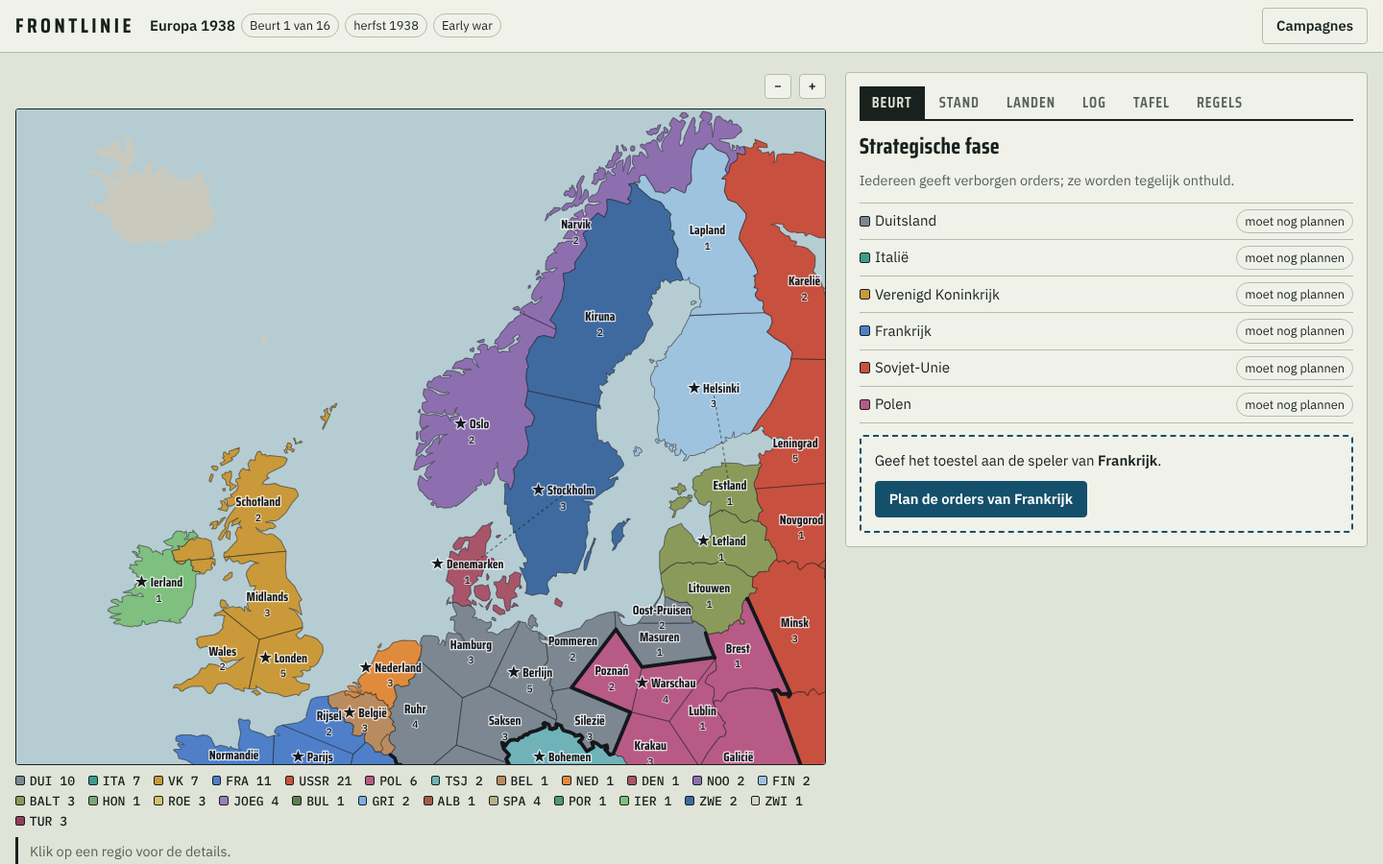
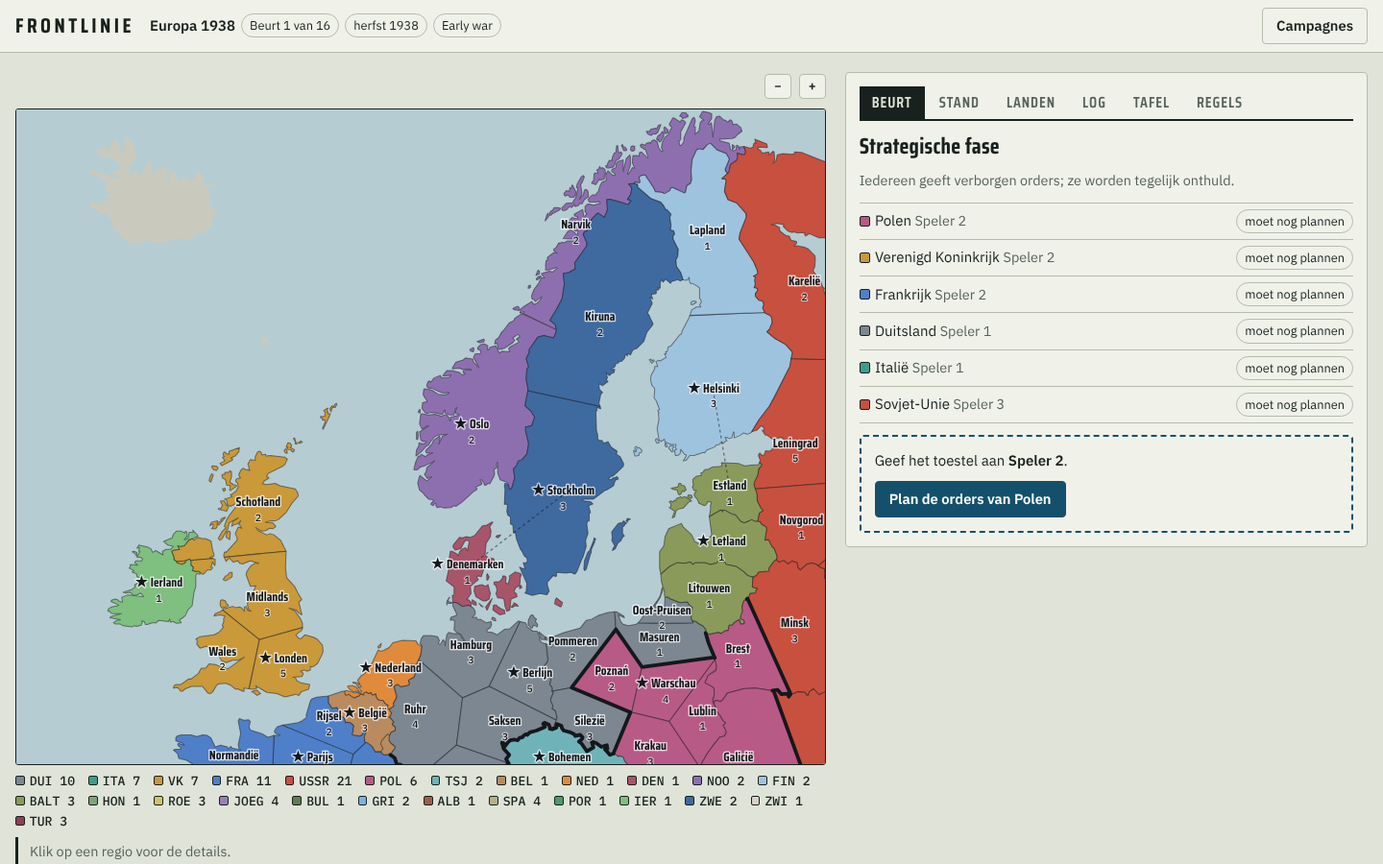
Frontlinie: spelers en landen kiezen bij de start
Bij het aanmaken van een campagne geef je de spelers een naam en kies je
per land wie het bestuurt; een speler mag meerdere landen besturen.
Het toestel gaat per speler rond in plaats van per land. Landen zonder
speler geven geen orders.

Claude-Session: https://claude.ai/code/session_01J3mvPChuSxEm9Lg5ATPEJk

Changed region(s): [[0.625, 0.2489, 0.75, 0.4356], [0.7188, 0.5289, 0.8438, 0.5911], [0.625, 0.4667, 0.7188, 0.4978]]

diff --git a/frontlinie/frontlinie.html b/frontlinie/frontlinie.html
@@ -146,6 +146,8 @@ label.vink { flex-direction: row; align-items: center; gap: 7px; font-size: 0.9r
 fieldset { border: 1px solid var(--lijn); border-radius: 4px; display: flex; flex-wrap: wrap; gap: 6px 16px; padding: 8px 10px; margin: 0; }
 legend { font: 600 0.74rem var(--f-kop); text-transform: uppercase; letter-spacing: 0.08em; color: var(--stil); padding: 0 4px; }
 .voorraad { display: grid; grid-template-columns: repeat(auto-fill, minmax(130px, 1fr)); gap: 8px 10px; }
+.spelers { display: flex; flex-direction: column; gap: 8px; }
+.spelers li { display: grid; grid-template-columns: minmax(110px, 180px) minmax(0, 1fr); gap: 10px; align-items: center; }
 .facrijen { display: flex; flex-direction: column; gap: 10px; }
 .facrij { border-top: 2px solid var(--inkt); padding-top: 8px; display: flex; flex-direction: column; gap: 7px; }
 .fackop { display: flex; flex-wrap: wrap; justify-content: space-between; align-items: center; gap: 8px; }
@@ -2017,7 +2019,7 @@ function nieuweCampagne(cfg) {
     const basis = sc.facties.find((f) => f.id === fc.id) || {}, F = FACTIES[fc.id];
     const geldig = doctrinesVoor(fc.id, periode).map((d) => d.id);
     const doc = geldig.includes(fc.doctrine) ? fc.doctrine : (geldig.includes(basis.doctrine) ? basis.doctrine : geldig[0]);
-    return { id: fc.id, naam: F.naam, kort: F.kort, kleur: F.kleur, zijde: fc.zijde || basis.zijde || F.zijde, speler: fc.speler || basis.speler || 'mens', leger: F.leger || '',
+    return { id: fc.id, naam: F.naam, kort: F.kort, kleur: F.kleur, zijde: fc.zijde || basis.zijde || F.zijde, speler: fc.speler || basis.speler || 'mens', spelerNaam: fc.spelerNaam || '', leger: F.leger || '',
       doctrines: [doc], slots: 1, zeges: 0, hoofdstad: basis.hoofdstad || null, bronnen: basis.bronnen ? basis.bronnen.slice() : null,
       para: !!basis.para, gratisPara: basis.gratisPara || 0, landing: !!basis.landing || !!sc.sandbox, beurt1Aanvallen: basis.beurt1Aanvallen || 0, later: !!basis.later,
       extraOrders: 0, bonusVP: 0, tegenaanval: null, herkans: [], geenLanding: 0, voorbereid: {}, vielAan: 0, verloor: 0, verslagen: false, veteranen: [] };
@@ -2277,7 +2279,10 @@ function startOrderFase(state) {
 function planVolgorde(state) {
   const mensen = actieveFacties(state).filter((f) => f.speler === 'mens');
   const rang = (f) => (heeftDoc(f, 'vuurkracht') ? -100 : 0) + state.initiatief.indexOf(f.id);
-  return mensen.sort((a, b) => rang(a) - rang(b)).map((f) => f.id);
+  mensen.sort((a, b) => rang(a) - rang(b));
+  // landen van dezelfde speler na elkaar, zodat het toestel maar één keer per speler rondgaat
+  const spelers = [...new Set(mensen.map((f) => f.spelerNaam || f.id))];
+  return spelers.flatMap((sp) => mensen.filter((f) => (f.spelerNaam || f.id) === sp)).map((f) => f.id);
 }
 function volgendePlanner(state) { return planVolgorde(state).find((id) => !state.klaar[id]) || null; }
 // Aanvallen van de vijand die deze factie tijdens het plannen al kent.
@@ -2864,7 +2869,11 @@ function beginNieuw(id) {
   const sc = campagneVan(id), rs = 'fow';
   ui.nieuw = { scenarioId: id, naam: sc.naam, ruleset: rs, punten: RULESETS[rs].punten, modus: 'simultaan', mist: true, doorlopend: !!sc.europa, lengte: sc.lengte, maxBeurten: sc.maxBeurten, geenDoel: false,
     bezit: losBezitOp(sc), verf: sc.facties[0].id,
-    facties: sc.facties.map((b) => ({ id: b.id, zijde: b.zijde || FACTIES[b.id].zijde, speler: b.speler === 'passief' ? 'passief' : 'mens', doctrine: b.doctrine || FACTIES[b.id].doctrine || doctrinesVoor(b.id, sc.periode)[0].id })) };
+    facties: sc.facties.map((b) => ({ id: b.id, zijde: b.zijde || FACTIES[b.id].zijde, speler: b.speler === 'passief' ? 'passief' : 'mens', wie: -1, doctrine: b.doctrine || FACTIES[b.id].doctrine || doctrinesVoor(b.id, sc.periode)[0].id })) };
+  // standaard: één speler per zijde
+  const n = ui.nieuw, zijden = [...new Set(n.facties.filter((f) => f.speler === 'mens').map((f) => f.zijde))];
+  n.spelers = zijden.map((_, i) => 'Speler ' + (i + 1));
+  for (const f of n.facties) if (f.speler === 'mens') f.wie = zijden.indexOf(f.zijde);
   ui.scherm = 'nieuw';
 }
 function nieuwScherm() {
@@ -2876,7 +2885,7 @@ function nieuwScherm() {
     const telt = Object.values(n.bezit).filter((e) => e === f.id).length;
     return `<li class="facrij"><div class="fackop"><span>${stip(F.kleur)}<b>${esc(F.naam)}</b></span><span class="stil">${telt} regio's</span></div>
       <div class="facvelden">
-        <label>Wie speelt<select id="sp-${f.id}" data-c="nf" data-i="${i}" data-veld="speler"><option value="mens" ${f.speler === 'mens' ? 'selected' : ''}>Een speler</option><option value="passief" ${f.speler === 'passief' ? 'selected' : ''}>Niemand: verdedigt alleen</option></select></label>
+        <label>Bestuurd door<select id="sp-${f.id}" data-c="nf" data-i="${i}" data-veld="wie" data-num="1"><option value="-1" ${f.wie < 0 ? 'selected' : ''}>Niemand</option>${n.spelers.map((sp, k) => `<option value="${k}" ${f.wie === k ? 'selected' : ''}>${esc(sp)}</option>`).join('')}</select></label>
         ${sc.sandbox ? `<label>Zijde<select id="zij-${f.id}" data-c="nf" data-i="${i}" data-veld="zijde">${Object.entries(ZIJDEN).map(([z, zn]) => `<option value="${z}" ${f.zijde === z ? 'selected' : ''}>${zn}</option>`).join('')}</select></label>` : ''}
         <label>Doctrine<select id="doc-${f.id}" data-c="nf" data-i="${i}" data-veld="doctrine">${docs.map((x) => `<option value="${x.id}" ${x.id === d.id ? 'selected' : ''}>${esc(x.naam)}</option>`).join('')}</select></label></div>
       <p class="doctekst"><b>Kaart:</b> ${esc(d.strat)} <b>Gevecht:</b> ${esc(d.gevecht)} <b>Nadeel:</b> ${esc(d.nadeel)}</p>
@@ -2885,14 +2894,20 @@ function nieuwScherm() {
   const spelers = n.facties.map((f, i) => [f, i]).filter(([f]) => f.speler === 'mens'), passief = n.facties.map((f, i) => [f, i]).filter(([f]) => f.speler !== 'mens');
   const rsOpt = Object.entries(RULESETS).map(([id, r]) => `<option value="${id}" ${n.ruleset === id ? 'selected' : ''}>${r.naam}</option>`).join('');
   const zijden = new Set(spelers.map(([f]) => f.zijde).filter((z) => z !== 'neutraal'));
-  const fout = spelers.length < 2 ? 'Minstens twee landen hebben een speler nodig.' : zijden.size < 2 ? 'De spelers moeten over minstens twee zijden verdeeld zijn.' : '';
+  const fout = spelers.length < 2 ? 'Geef minstens twee landen een speler.' : zijden.size < 2 ? 'De landen met een speler moeten over minstens twee zijden verdeeld zijn.' : '';
+  const spelerVak = `<ul class="spelers">${n.spelers.map((sp, k) => { const l = n.facties.filter((f) => f.wie === k); return `<li><input type="text" id="spn-${k}" data-c="ns" data-i="${k}" value="${esc(sp)}" aria-label="Naam van speler ${k + 1}"><span class="stil">${l.length ? l.map((f) => stip(FACTIES[f.id].kleur) + esc(FACTIES[f.id].naam)).join(', ') : 'nog geen land'}</span></li>`; }).join('')}</ul>
+    <div class="knoppen">${n.spelers.length < 8 ? knop('spelerPlus', 'Speler erbij', '', 'mini') : ''}${n.spelers.length > 2 ? knop('spelerMin', 'Laatste speler weg', '', 'mini') : ''}</div>`;
   return `<main class="nieuw">
   <section class="kaartvak"><p class="oog">${esc(sc.ondertitel)}</p><h1>${esc(sc.naam)}</h1><p>${esc(sc.tekst)}</p>
     ${sc.doel && !n.geenDoel ? `<p class="doelregel"><b>Doel.</b> ${esc(sc.doel.tekst)} Lukt dat niet, dan wint de andere zijde.</p>` : `<p class="doelregel"><b>Doel.</b> De zijde met de meeste overwinningspunten na ${n.maxBeurten} beurten wint.</p>`}
     <div class="kaartrol past"><div>${kaartSvg(ps, {})}</div></div>
     ${sc.sandbox ? `<label class="inlijn">Klik op een regio om haar te geven aan <select id="n-verf" data-c="n" data-veld="verf">${n.facties.map((f) => `<option value="${f.id}" ${n.verf === f.id ? 'selected' : ''}>${esc(FACTIES[f.id].naam)}</option>`).join('')}</select></label>` : ''}
     ${legenda()}</section>
-  <section class="paneel"><h2>Instellingen</h2>
+  <section class="paneel"><h2>Wie speelt mee?</h2><p class="stil">Geef elke speler een naam en kies hieronder per land wie het bestuurt. Eén speler mag meerdere landen besturen. Landen zonder speler doen niets.</p>
+    ${spelerVak}
+    <h2>Landen met een speler</h2><ul class="facrijen">${spelers.map(([f, i]) => rij(f, i)).join('') || '<li class="stil">Nog geen land gekozen.</li>'}</ul>
+    ${passief.length ? `<details ${spelers.length < 2 ? 'open' : ''}><summary>Landen zonder speler (${passief.length})</summary><p class="stil">Ze geven geen orders en doen niets uit zichzelf. Val je er één aan, dan speelt een tegenstander zijn leger. Een neutraal land dat wordt aangevallen, kiest de andere kant.</p><ul class="facrijen">${passief.map(([f, i]) => rij(f, i)).join('')}</ul></details>` : ''}
+    <h2>Instellingen</h2>
     <div class="veldgrid">
       <label class="breed">Naam van de campagne<input type="text" id="n-naam" data-c="n" data-veld="naam" value="${esc(n.naam)}"></label>
       <label>Systeem<select id="n-rs" data-c="n" data-veld="ruleset">${rsOpt}</select></label>
@@ -2904,8 +2919,6 @@ function nieuwScherm() {
       <label class="vink breed"><input type="checkbox" id="n-door" data-c="n" data-veld="doorlopend" ${n.doorlopend ? 'checked' : ''}> De periode volgt de kalender: Mid war vanaf 1942, Late war vanaf 1944</label>
       ${sc.sandbox && sc.doel ? `<label class="vink breed"><input type="checkbox" id="n-doel" data-c="n" data-veld="geenDoel" ${n.geenDoel ? 'checked' : ''}> Zonder scenariodoel: speel op overwinningspunten</label>` : ''}
     </div>
-    <h2>Landen met een speler</h2><ul class="facrijen">${spelers.map(([f, i]) => rij(f, i)).join('')}</ul>
-    ${passief.length ? `<details><summary>Landen zonder speler (${passief.length})</summary><p class="stil">Ze geven geen orders. Word je aangevallen, dan speelt een tegenstander van de aanvaller hun leger. Een neutraal land dat wordt aangevallen, kiest de andere kant.</p><ul class="facrijen">${passief.map(([f, i]) => rij(f, i)).join('')}</ul></details>` : ''}
     ${fout ? `<p class="fout">${fout}</p>` : ''}
     <div class="knoppen">${knop('startCampagne', 'Start de campagne', fout ? 'disabled' : '', 'hoofd')}${knop('naarStart', 'Terug')}</div>
   </section></main>`;
@@ -2975,10 +2988,10 @@ function tabBeurt(s) {
   if (s.fase === 'orders') {
     if (ui.plannend) return orderBouwer(s, ui.plannend);
     const volg = planVolgorde(s), nu = volgendePlanner(s);
-    const rijen = actieveFacties(s).filter((f) => f.speler === 'mens').map((f) => `<li class="rij smal"><span>${facNaam(s, f.id)}</span>${s.klaar[f.id] ? chip('orders klaar', 'ok') : chip('moet nog plannen')}</li>`).join('');
+    const rijen = volg.map((id) => factie(s, id)).map((f) => `<li class="rij smal"><span>${facNaam(s, f.id)}${f.spelerNaam ? ` <span class="stil">${esc(f.spelerNaam)}</span>` : ''}</span>${s.klaar[f.id] ? chip('orders klaar', 'ok') : chip('moet nog plannen')}</li>`).join('');
     return `<h2>Strategische fase</h2><p class="stil">${s.modus === 'simultaan' ? 'Iedereen geeft verborgen orders; ze worden tegelijk onthuld.' : `Om de beurt, op initiatief: ${volg.map((id) => esc(factie(s, id).naam)).join(', ')}. Wie later plant, ziet de aanvallen van wie al klaar is.`}</p>
       <ul class="rijen">${rijen}</ul>
-      ${nu ? `<div class="doorgeef"><p>Geef het toestel aan de speler van <b>${esc(factie(s, nu).naam)}</b>.</p>${knop('plan', `Plan de orders van ${esc(factie(s, nu).naam)}`, `data-id="${nu}"`, 'hoofd')}</div>` : `<div class="doorgeef"><p>Alle orders liggen klaar.</p>${knop('onthul', 'Onthul de orders', '', 'hoofd')}</div>`}`;
+      ${nu ? `<div class="doorgeef"><p>Geef het toestel aan <b>${esc(factie(s, nu).spelerNaam || 'de speler van ' + factie(s, nu).naam)}</b>.</p>${knop('plan', `Plan de orders van ${esc(factie(s, nu).naam)}`, `data-id="${nu}"`, 'hoofd')}</div>` : `<div class="doorgeef"><p>Alle orders liggen klaar.</p>${knop('onthul', 'Onthul de orders', '', 'hoofd')}</div>`}`;
   }
   if (s.fase === 'onthuld') {
     if (ui.auftrag) return orderBouwer(s, ui.auftrag.fid);
@@ -3017,7 +3030,7 @@ function orderBouwer(s, fid) {
     const n = t === 'aanval' ? orderDoelen(s, fid, 'aanval').length : orderDoelen(s, fid, t).length;
     return `<button type="button" class="ordknop${ui.orderType === t ? ' aan' : ''}" data-a="orderType" data-id="${t}" ${n ? '' : 'disabled'} title="${esc(ORDERTYPES[t].tekst)}"><span class="code">${ORDERCODE[t]}</span>${ORDERTYPES[t].naam}</button>`;
   }).join('');
-  return `<div class="planner"><p class="oog">${ui.auftrag ? 'Auftragstaktik: vervang één order' : 'Geheim: alleen voor deze speler'}</p><h2>${facNaam(s, fid)}</h2>
+  return `<div class="planner"><p class="oog">${ui.auftrag ? 'Auftragstaktik: vervang één order' : `Geheim: alleen voor ${esc(f.spelerNaam || 'deze speler')}`}</p><h2>${facNaam(s, fid)}</h2>
     <p class="stil">${esc(docNamen(f))}</p>
     <p class="tellers">${chip(`Orders ${tel.orders} van ${lim.orders}`, tel.orders >= lim.orders ? 'let' : '')}${chip(`Aanvallen ${tel.aanvallen} van ${lim.aanvallen}`, tel.aanvallen >= lim.aanvallen ? 'let' : '')}</p>
     ${bekend.length ? `<p class="let-tekst"><b>Verkenning meldt:</b> ${bekend.map((a) => `${esc(factie(s, a.fid).naam)} valt ${esc(info.opId[a.naar].naam)} aan`).join('; ')}.</p>` : ''}
@@ -3025,7 +3038,7 @@ function orderBouwer(s, fid) {
     ${ui.orderType ? `<p class="uitleg">${esc(ORDERTYPES[ui.orderType].tekst)} ${esc(instructie(s))}</p>` : '<p class="uitleg">Kies een order, klik dan op de kaart.</p>'}
     ${ui.melding ? `<p class="fout">${esc(ui.melding)}</p>` : ''}
     <h3>Jouw orders</h3>${eigen.length ? `<ol class="orders">${lijst.map((o, i) => (ui.auftrag && ui.auftrag.index === i ? '' : `<li><span class="code">${ORDERCODE[o.type]}</span>${orderTekst(s, o)}${ui.auftrag ? '' : knop('wisOrder', 'wis', `data-i="${i}"`, 'mini')}</li>`)).join('')}</ol>` : '<p class="stil">Nog geen orders.</p>'}
-    <div class="knoppen">${ui.auftrag ? knop('auftragStop', 'Annuleer') : knop('planKlaar', 'Klaar, verberg mijn orders', '', 'hoofd')}</div></div>`;
+    <div class="knoppen">${ui.auftrag ? knop('auftragStop', 'Annuleer') : knop('planKlaar', 'Klaar met ' + esc(f.naam), '', 'hoofd')}</div></div>`;
 }
 
 function standTabel(s, st) {
@@ -3046,7 +3059,7 @@ function tabLanden(s) {
     const docs = f.doctrines.map((id, i) => { const d = doctrineVan(id); return `<div class="doc"><b>${esc(d.naam)}</b>${f.magWisselen && i === 0 && vrij.length ? ` <select id="wd-${f.id}" data-c="wisselDoc" data-id="${f.id}" aria-label="Andere doctrine"><option value="">andere kiezen…</option>${vrij.map((x) => `<option value="${x.id}">${esc(x.naam)}</option>`).join('')}</select>` : ''}<p><b>Kaart:</b> ${esc(d.strat)} <b>Gevecht:</b> ${esc(d.gevecht)} <b>Nadeel:</b> ${esc(d.nadeel)}</p></div>`; }).join('');
     const tweede = f.slots >= 2 && f.doctrines.length < 2 && vrij.length ? `<label class="tweede">Tweede doctrine vrijgespeeld<select id="td-${f.id}" data-c="tweedeDoc" data-id="${f.id}"><option value="">kies…</option>${vrij.map((x) => `<option value="${x.id}">${esc(x.naam)}</option>`).join('')}</select></label>` : '';
     const vets = f.veteranen.map((v, i) => `<li><span><b>${esc(v.naam)}</b> · ${v.gevechten} gevecht${v.gevechten === 1 ? '' : 'en'} · <span class="stil">${veteraanBonus(v)}</span></span><span class="knoppen">${knop('vetPlus', '+1 gevecht', `data-id="${f.id}" data-i="${i}"`, 'mini')}${knop('vetWeg', 'wis', `data-id="${f.id}" data-i="${i}"`, 'mini')}</span></li>`).join('');
-    return `<li class="blok${f.verslagen ? ' uit' : ''}"><div class="fackop"><h3>${facNaam(s, f.id)}</h3><span class="chips">${chip(ZIJDEN[f.zijde])}${f.verslagen ? chip('verslagen', 'let') : chip(`${lim.orders} orders, ${lim.aanvallen} aanvallen`)}</span></div>
+    return `<li class="blok${f.verslagen ? ' uit' : ''}"><div class="fackop"><h3>${facNaam(s, f.id)}${f.speler === 'mens' && f.spelerNaam ? ` <span class="stil">${esc(f.spelerNaam)}</span>` : ''}</h3><span class="chips">${chip(ZIJDEN[f.zijde])}${f.verslagen ? chip('verslagen', 'let') : chip(`${lim.orders} orders, ${lim.aanvallen} aanvallen`)}</span></div>
       <label class="inlijn">Wie speelt <select id="sp2-${f.id}" data-c="spelerWissel" data-id="${f.id}"><option value="mens" ${f.speler === 'mens' ? 'selected' : ''}>Een speler</option><option value="passief" ${f.speler !== 'mens' ? 'selected' : ''}>Niemand: verdedigt alleen</option></select></label>
       <p class="doctekst"><b>Leger op tafel:</b> ${esc(f.leger || FACTIES[f.id].leger)}</p>
       ${docs}${tweede}
@@ -3195,10 +3208,12 @@ const ACT = {
       opslag.campagnes[s.id] = s; bewaar(); ui.melding = '';
     } catch (e) { ui.melding = 'Dit is geen geldige Frontlinie-export. Plak de volledige tekst, van { tot en met }.'; }
   },
+  spelerPlus() { ui.nieuw.spelers.push('Speler ' + (ui.nieuw.spelers.length + 1)); },
+  spelerMin() { const k = ui.nieuw.spelers.length - 1; ui.nieuw.spelers.pop(); for (const f of ui.nieuw.facties) if (f.wie === k) { f.wie = -1; f.speler = 'passief'; } },
   startCampagne() {
     const n = ui.nieuw;
     const s = nieuweCampagne({ scenarioId: n.scenarioId, naam: n.naam.trim() || campagneVan(n.scenarioId).naam, ruleset: n.ruleset, punten: n.punten, modus: n.modus, mist: n.mist, doorlopend: n.doorlopend,
-      lengte: n.lengte, maxBeurten: n.maxBeurten, geenDoel: n.geenDoel, bezit: n.bezit, tafel: opslag.tafel, voorraad: opslag.voorraad, facties: n.facties.map((f) => ({ id: f.id, zijde: f.zijde, speler: f.speler, doctrine: f.doctrine })) });
+      lengte: n.lengte, maxBeurten: n.maxBeurten, geenDoel: n.geenDoel, bezit: n.bezit, tafel: opslag.tafel, voorraad: opslag.voorraad, facties: n.facties.map((f) => ({ id: f.id, zijde: f.zijde, speler: f.speler, spelerNaam: f.wie >= 0 ? (n.spelers[f.wie].trim() || 'Speler ' + (f.wie + 1)) : '', doctrine: f.doctrine })) });
     opslag.campagnes[s.id] = s; bewaar(); ACT.open({ id: s.id });
   },
   tab(d) { ui.tab = d.id; ui.melding = ''; },
@@ -3223,7 +3238,13 @@ const ACT = {
   plan(d) { ui.plannend = d.id; ui.tab = 'beurt'; ui.sel = null; ui.undo = null; resetPlan(); },
   orderType(d) { ui.orderType = ui.orderType === d.id ? null : d.id; ui.orderVan = null; ui.melding = ''; },
   wisOrder(d) { muteer((s) => verwijderOrder(s, ui.plannend, +d.i)); },
-  planKlaar() { muteer((s) => { s.klaar[ui.plannend] = true; }); ui.plannend = null; ui.sel = null; ui.undo = null; resetPlan(); naarBoven(); },
+  planKlaar() {
+    const s = C(), wie = factie(s, ui.plannend).spelerNaam;
+    muteer((st) => { st.klaar[ui.plannend] = true; });
+    const nu = volgendePlanner(s); // volgende land van dezelfde speler: meteen door, zonder het toestel door te geven
+    ui.plannend = nu && wie && factie(s, nu).spelerNaam === wie ? nu : null;
+    ui.sel = null; ui.undo = null; resetPlan(); naarBoven();
+  },
   onthul() { muteer((s) => onthul(s)); ui.undo = null; },
   auftrag(d) { ui.auftrag = { fid: d.id, index: +d.i }; resetPlan(); },
   auftragStop() { ui.auftrag = null; resetPlan(); },
@@ -3253,7 +3274,8 @@ const ACT = {
 // formuliervelden: data-c = doel, data-veld = sleutel
 const VELD = {
   n(el, w) { const n = ui.nieuw; n[el.dataset.veld] = w; if (el.dataset.veld === 'ruleset') n.punten = RULESETS[w].punten; },
-  nf(el, w) { ui.nieuw.facties[+el.dataset.i][el.dataset.veld] = w; },
+  nf(el, w) { const f = ui.nieuw.facties[+el.dataset.i]; f[el.dataset.veld] = w; if (el.dataset.veld === 'wie') f.speler = w >= 0 ? 'mens' : 'passief'; },
+  ns(el, w) { ui.nieuw.spelers[+el.dataset.i] = String(w).slice(0, 30); },
   l(el, w) { const l = ui.los; l[el.dataset.veld] = w; if (el.dataset.veld === 'ruleset') l.punten = RULESETS[w].punten; if (['facA', 'periode'].includes(el.dataset.veld) && !doctrinesVoor(l.facA, l.periode).some((x) => x.id === l.docA)) l.docA = ''; if (['facV', 'periode'].includes(el.dataset.veld) && !doctrinesVoor(l.facV, l.periode).some((x) => x.id === l.docV)) l.docV = ''; },
   li(el, w) { ui.los.infra[el.dataset.veld] = w; },
   u(el, w) { ui.uitslag[el.dataset.veld] = w; return false; },
@@ -3261,7 +3283,7 @@ const VELD = {
   ctv(el, w) { const s = C(); s.voorraad[el.dataset.veld] = Math.max(0, +w || 0); opslag.voorraad = Object.assign({}, s.voorraad); bewaar(); },
   gt(el, w) { opslag.tafel[el.dataset.veld] = el.dataset.veld === 'eenheid' ? w : Math.max(24, +w || 24); bewaar(); },
   gtv(el, w) { opslag.voorraad[el.dataset.veld] = Math.max(0, +w || 0); bewaar(); },
-  spelerWissel(el, w) { muteer((s) => { const f = factie(s, el.dataset.id); f.speler = w; if (s.fase === 'orders') { s.orders[f.id] = []; s.klaar[f.id] = w !== 'mens'; } }); },
+  spelerWissel(el, w) { muteer((s) => { const f = factie(s, el.dataset.id); f.speler = w; if (w === 'mens' && !f.spelerNaam) f.spelerNaam = 'Speler van ' + f.naam; if (s.fase === 'orders') { s.orders[f.id] = []; s.klaar[f.id] = w !== 'mens'; } }); },
   tweedeDoc(el, w) { if (w) muteer((s) => kiesTweedeDoctrine(s, el.dataset.id, w)); },
   wisselDoc(el, w) { if (w) muteer((s) => wisselDoctrine(s, el.dataset.id, 0, w)); },
 };

diff --git a/frontlinie/src/ui.js b/frontlinie/src/ui.js
@@ -85,7 +85,11 @@ function beginNieuw(id) {
   const sc = campagneVan(id), rs = 'fow';
   ui.nieuw = { scenarioId: id, naam: sc.naam, ruleset: rs, punten: RULESETS[rs].punten, modus: 'simultaan', mist: true, doorlopend: !!sc.europa, lengte: sc.lengte, maxBeurten: sc.maxBeurten, geenDoel: false,
     bezit: losBezitOp(sc), verf: sc.facties[0].id,
-    facties: sc.facties.map((b) => ({ id: b.id, zijde: b.zijde || FACTIES[b.id].zijde, speler: b.speler === 'passief' ? 'passief' : 'mens', doctrine: b.doctrine || FACTIES[b.id].doctrine || doctrinesVoor(b.id, sc.periode)[0].id })) };
+    facties: sc.facties.map((b) => ({ id: b.id, zijde: b.zijde || FACTIES[b.id].zijde, speler: b.speler === 'passief' ? 'passief' : 'mens', wie: -1, doctrine: b.doctrine || FACTIES[b.id].doctrine || doctrinesVoor(b.id, sc.periode)[0].id })) };
+  // standaard: één speler per zijde
+  const n = ui.nieuw, zijden = [...new Set(n.facties.filter((f) => f.speler === 'mens').map((f) => f.zijde))];
+  n.spelers = zijden.map((_, i) => 'Speler ' + (i + 1));
+  for (const f of n.facties) if (f.speler === 'mens') f.wie = zijden.indexOf(f.zijde);
   ui.scherm = 'nieuw';
 }
 function nieuwScherm() {
@@ -97,7 +101,7 @@ function nieuwScherm() {
     const telt = Object.values(n.bezit).filter((e) => e === f.id).length;
     return `<li class="facrij"><div class="fackop"><span>${stip(F.kleur)}<b>${esc(F.naam)}</b></span><span class="stil">${telt} regio's</span></div>
       <div class="facvelden">
-        <label>Wie speelt<select id="sp-${f.id}" data-c="nf" data-i="${i}" data-veld="speler"><option value="mens" ${f.speler === 'mens' ? 'selected' : ''}>Een speler</option><option value="passief" ${f.speler === 'passief' ? 'selected' : ''}>Niemand: verdedigt alleen</option></select></label>
+        <label>Bestuurd door<select id="sp-${f.id}" data-c="nf" data-i="${i}" data-veld="wie" data-num="1"><option value="-1" ${f.wie < 0 ? 'selected' : ''}>Niemand</option>${n.spelers.map((sp, k) => `<option value="${k}" ${f.wie === k ? 'selected' : ''}>${esc(sp)}</option>`).join('')}</select></label>
         ${sc.sandbox ? `<label>Zijde<select id="zij-${f.id}" data-c="nf" data-i="${i}" data-veld="zijde">${Object.entries(ZIJDEN).map(([z, zn]) => `<option value="${z}" ${f.zijde === z ? 'selected' : ''}>${zn}</option>`).join('')}</select></label>` : ''}
         <label>Doctrine<select id="doc-${f.id}" data-c="nf" data-i="${i}" data-veld="doctrine">${docs.map((x) => `<option value="${x.id}" ${x.id === d.id ? 'selected' : ''}>${esc(x.naam)}</option>`).join('')}</select></label></div>
       <p class="doctekst"><b>Kaart:</b> ${esc(d.strat)} <b>Gevecht:</b> ${esc(d.gevecht)} <b>Nadeel:</b> ${esc(d.nadeel)}</p>
@@ -106,14 +110,20 @@ function nieuwScherm() {
   const spelers = n.facties.map((f, i) => [f, i]).filter(([f]) => f.speler === 'mens'), passief = n.facties.map((f, i) => [f, i]).filter(([f]) => f.speler !== 'mens');
   const rsOpt = Object.entries(RULESETS).map(([id, r]) => `<option value="${id}" ${n.ruleset === id ? 'selected' : ''}>${r.naam}</option>`).join('');
   const zijden = new Set(spelers.map(([f]) => f.zijde).filter((z) => z !== 'neutraal'));
-  const fout = spelers.length < 2 ? 'Minstens twee landen hebben een speler nodig.' : zijden.size < 2 ? 'De spelers moeten over minstens twee zijden verdeeld zijn.' : '';
+  const fout = spelers.length < 2 ? 'Geef minstens twee landen een speler.' : zijden.size < 2 ? 'De landen met een speler moeten over minstens twee zijden verdeeld zijn.' : '';
+  const spelerVak = `<ul class="spelers">${n.spelers.map((sp, k) => { const l = n.facties.filter((f) => f.wie === k); return `<li><input type="text" id="spn-${k}" data-c="ns" data-i="${k}" value="${esc(sp)}" aria-label="Naam van speler ${k + 1}"><span class="stil">${l.length ? l.map((f) => stip(FACTIES[f.id].kleur) + esc(FACTIES[f.id].naam)).join(', ') : 'nog geen land'}</span></li>`; }).join('')}</ul>
+    <div class="knoppen">${n.spelers.length < 8 ? knop('spelerPlus', 'Speler erbij', '', 'mini') : ''}${n.spelers.length > 2 ? knop('spelerMin', 'Laatste speler weg', '', 'mini') : ''}</div>`;
   return `<main class="nieuw">
   <section class="kaartvak"><p class="oog">${esc(sc.ondertitel)}</p><h1>${esc(sc.naam)}</h1><p>${esc(sc.tekst)}</p>
     ${sc.doel && !n.geenDoel ? `<p class="doelregel"><b>Doel.</b> ${esc(sc.doel.tekst)} Lukt dat niet, dan wint de andere zijde.</p>` : `<p class="doelregel"><b>Doel.</b> De zijde met de meeste overwinningspunten na ${n.maxBeurten} beurten wint.</p>`}
     <div class="kaartrol past"><div>${kaartSvg(ps, {})}</div></div>
     ${sc.sandbox ? `<label class="inlijn">Klik op een regio om haar te geven aan <select id="n-verf" data-c="n" data-veld="verf">${n.facties.map((f) => `<option value="${f.id}" ${n.verf === f.id ? 'selected' : ''}>${esc(FACTIES[f.id].naam)}</option>`).join('')}</select></label>` : ''}
     ${legenda()}</section>
-  <section class="paneel"><h2>Instellingen</h2>
+  <section class="paneel"><h2>Wie speelt mee?</h2><p class="stil">Geef elke speler een naam en kies hieronder per land wie het bestuurt. Eén speler mag meerdere landen besturen. Landen zonder speler doen niets.</p>
+    ${spelerVak}
+    <h2>Landen met een speler</h2><ul class="facrijen">${spelers.map(([f, i]) => rij(f, i)).join('') || '<li class="stil">Nog geen land gekozen.</li>'}</ul>
+    ${passief.length ? `<details ${spelers.length < 2 ? 'open' : ''}><summary>Landen zonder speler (${passief.length})</summary><p class="stil">Ze geven geen orders en doen niets uit zichzelf. Val je er één aan, dan speelt een tegenstander zijn leger. Een neutraal land dat wordt aangevallen, kiest de andere kant.</p><ul class="facrijen">${passief.map(([f, i]) => rij(f, i)).join('')}</ul></details>` : ''}
+    <h2>Instellingen</h2>
     <div class="veldgrid">
       <label class="breed">Naam van de campagne<input type="text" id="n-naam" data-c="n" data-veld="naam" value="${esc(n.naam)}"></label>
       <label>Systeem<select id="n-rs" data-c="n" data-veld="ruleset">${rsOpt}</select></label>
@@ -125,8 +135,6 @@ function nieuwScherm() {
       <label class="vink breed"><input type="checkbox" id="n-door" data-c="n" data-veld="doorlopend" ${n.doorlopend ? 'checked' : ''}> De periode volgt de kalender: Mid war vanaf 1942, Late war vanaf 1944</label>
       ${sc.sandbox && sc.doel ? `<label class="vink breed"><input type="checkbox" id="n-doel" data-c="n" data-veld="geenDoel" ${n.geenDoel ? 'checked' : ''}> Zonder scenariodoel: speel op overwinningspunten</label>` : ''}
     </div>
-    <h2>Landen met een speler</h2><ul class="facrijen">${spelers.map(([f, i]) => rij(f, i)).join('')}</ul>
-    ${passief.length ? `<details><summary>Landen zonder speler (${passief.length})</summary><p class="stil">Ze geven geen orders. Word je aangevallen, dan speelt een tegenstander van de aanvaller hun leger. Een neutraal land dat wordt aangevallen, kiest de andere kant.</p><ul class="facrijen">${passief.map(([f, i]) => rij(f, i)).join('')}</ul></details>` : ''}
     ${fout ? `<p class="fout">${fout}</p>` : ''}
     <div class="knoppen">${knop('startCampagne', 'Start de campagne', fout ? 'disabled' : '', 'hoofd')}${knop('naarStart', 'Terug')}</div>
   </section></main>`;
@@ -196,10 +204,10 @@ function tabBeurt(s) {
   if (s.fase === 'orders') {
     if (ui.plannend) return orderBouwer(s, ui.plannend);
     const volg = planVolgorde(s), nu = volgendePlanner(s);
-    const rijen = actieveFacties(s).filter((f) => f.speler === 'mens').map((f) => `<li class="rij smal"><span>${facNaam(s, f.id)}</span>${s.klaar[f.id] ? chip('orders klaar', 'ok') : chip('moet nog plannen')}</li>`).join('');
+    const rijen = volg.map((id) => factie(s, id)).map((f) => `<li class="rij smal"><span>${facNaam(s, f.id)}${f.spelerNaam ? ` <span class="stil">${esc(f.spelerNaam)}</span>` : ''}</span>${s.klaar[f.id] ? chip('orders klaar', 'ok') : chip('moet nog plannen')}</li>`).join('');
     return `<h2>Strategische fase</h2><p class="stil">${s.modus === 'simultaan' ? 'Iedereen geeft verborgen orders; ze worden tegelijk onthuld.' : `Om de beurt, op initiatief: ${volg.map((id) => esc(factie(s, id).naam)).join(', ')}. Wie later plant, ziet de aanvallen van wie al klaar is.`}</p>
       <ul class="rijen">${rijen}</ul>
-      ${nu ? `<div class="doorgeef"><p>Geef het toestel aan de speler van <b>${esc(factie(s, nu).naam)}</b>.</p>${knop('plan', `Plan de orders van ${esc(factie(s, nu).naam)}`, `data-id="${nu}"`, 'hoofd')}</div>` : `<div class="doorgeef"><p>Alle orders liggen klaar.</p>${knop('onthul', 'Onthul de orders', '', 'hoofd')}</div>`}`;
+      ${nu ? `<div class="doorgeef"><p>Geef het toestel aan <b>${esc(factie(s, nu).spelerNaam || 'de speler van ' + factie(s, nu).naam)}</b>.</p>${knop('plan', `Plan de orders van ${esc(factie(s, nu).naam)}`, `data-id="${nu}"`, 'hoofd')}</div>` : `<div class="doorgeef"><p>Alle orders liggen klaar.</p>${knop('onthul', 'Onthul de orders', '', 'hoofd')}</div>`}`;
   }
   if (s.fase === 'onthuld') {
     if (ui.auftrag) return orderBouwer(s, ui.auftrag.fid);
@@ -238,7 +246,7 @@ function orderBouwer(s, fid) {
     const n = t === 'aanval' ? orderDoelen(s, fid, 'aanval').length : orderDoelen(s, fid, t).length;
     return `<button type="button" class="ordknop${ui.orderType === t ? ' aan' : ''}" data-a="orderType" data-id="${t}" ${n ? '' : 'disabled'} title="${esc(ORDERTYPES[t].tekst)}"><span class="code">${ORDERCODE[t]}</span>${ORDERTYPES[t].naam}</button>`;
   }).join('');
-  return `<div class="planner"><p class="oog">${ui.auftrag ? 'Auftragstaktik: vervang één order' : 'Geheim: alleen voor deze speler'}</p><h2>${facNaam(s, fid)}</h2>
+  return `<div class="planner"><p class="oog">${ui.auftrag ? 'Auftragstaktik: vervang één order' : `Geheim: alleen voor ${esc(f.spelerNaam || 'deze speler')}`}</p><h2>${facNaam(s, fid)}</h2>
     <p class="stil">${esc(docNamen(f))}</p>
     <p class="tellers">${chip(`Orders ${tel.orders} van ${lim.orders}`, tel.orders >= lim.orders ? 'let' : '')}${chip(`Aanvallen ${tel.aanvallen} van ${lim.aanvallen}`, tel.aanvallen >= lim.aanvallen ? 'let' : '')}</p>
     ${bekend.length ? `<p class="let-tekst"><b>Verkenning meldt:</b> ${bekend.map((a) => `${esc(factie(s, a.fid).naam)} valt ${esc(info.opId[a.naar].naam)} aan`).join('; ')}.</p>` : ''}
@@ -246,7 +254,7 @@ function orderBouwer(s, fid) {
     ${ui.orderType ? `<p class="uitleg">${esc(ORDERTYPES[ui.orderType].tekst)} ${esc(instructie(s))}</p>` : '<p class="uitleg">Kies een order, klik dan op de kaart.</p>'}
     ${ui.melding ? `<p class="fout">${esc(ui.melding)}</p>` : ''}
     <h3>Jouw orders</h3>${eigen.length ? `<ol class="orders">${lijst.map((o, i) => (ui.auftrag && ui.auftrag.index === i ? '' : `<li><span class="code">${ORDERCODE[o.type]}</span>${orderTekst(s, o)}${ui.auftrag ? '' : knop('wisOrder', 'wis', `data-i="${i}"`, 'mini')}</li>`)).join('')}</ol>` : '<p class="stil">Nog geen orders.</p>'}
-    <div class="knoppen">${ui.auftrag ? knop('auftragStop', 'Annuleer') : knop('planKlaar', 'Klaar, verberg mijn orders', '', 'hoofd')}</div></div>`;
+    <div class="knoppen">${ui.auftrag ? knop('auftragStop', 'Annuleer') : knop('planKlaar', 'Klaar met ' + esc(f.naam), '', 'hoofd')}</div></div>`;
 }
 
 function standTabel(s, st) {
@@ -267,7 +275,7 @@ function tabLanden(s) {
     const docs = f.doctrines.map((id, i) => { const d = doctrineVan(id); return `<div class="doc"><b>${esc(d.naam)}</b>${f.magWisselen && i === 0 && vrij.length ? ` <select id="wd-${f.id}" data-c="wisselDoc" data-id="${f.id}" aria-label="Andere doctrine"><option value="">andere kiezen…</option>${vrij.map((x) => `<option value="${x.id}">${esc(x.naam)}</option>`).join('')}</select>` : ''}<p><b>Kaart:</b> ${esc(d.strat)} <b>Gevecht:</b> ${esc(d.gevecht)} <b>Nadeel:</b> ${esc(d.nadeel)}</p></div>`; }).join('');
     const tweede = f.slots >= 2 && f.doctrines.length < 2 && vrij.length ? `<label class="tweede">Tweede doctrine vrijgespeeld<select id="td-${f.id}" data-c="tweedeDoc" data-id="${f.id}"><option value="">kies…</option>${vrij.map((x) => `<option value="${x.id}">${esc(x.naam)}</option>`).join('')}</select></label>` : '';
     const vets = f.veteranen.map((v, i) => `<li><span><b>${esc(v.naam)}</b> · ${v.gevechten} gevecht${v.gevechten === 1 ? '' : 'en'} · <span class="stil">${veteraanBonus(v)}</span></span><span class="knoppen">${knop('vetPlus', '+1 gevecht', `data-id="${f.id}" data-i="${i}"`, 'mini')}${knop('vetWeg', 'wis', `data-id="${f.id}" data-i="${i}"`, 'mini')}</span></li>`).join('');
-    return `<li class="blok${f.verslagen ? ' uit' : ''}"><div class="fackop"><h3>${facNaam(s, f.id)}</h3><span class="chips">${chip(ZIJDEN[f.zijde])}${f.verslagen ? chip('verslagen', 'let') : chip(`${lim.orders} orders, ${lim.aanvallen} aanvallen`)}</span></div>
+    return `<li class="blok${f.verslagen ? ' uit' : ''}"><div class="fackop"><h3>${facNaam(s, f.id)}${f.speler === 'mens' && f.spelerNaam ? ` <span class="stil">${esc(f.spelerNaam)}</span>` : ''}</h3><span class="chips">${chip(ZIJDEN[f.zijde])}${f.verslagen ? chip('verslagen', 'let') : chip(`${lim.orders} orders, ${lim.aanvallen} aanvallen`)}</span></div>
       <label class="inlijn">Wie speelt <select id="sp2-${f.id}" data-c="spelerWissel" data-id="${f.id}"><option value="mens" ${f.speler === 'mens' ? 'selected' : ''}>Een speler</option><option value="passief" ${f.speler !== 'mens' ? 'selected' : ''}>Niemand: verdedigt alleen</option></select></label>
       <p class="doctekst"><b>Leger op tafel:</b> ${esc(f.leger || FACTIES[f.id].leger)}</p>
       ${docs}${tweede}
@@ -416,10 +424,12 @@ const ACT = {
       opslag.campagnes[s.id] = s; bewaar(); ui.melding = '';
     } catch (e) { ui.melding = 'Dit is geen geldige Frontlinie-export. Plak de volledige tekst, van { tot en met }.'; }
   },
+  spelerPlus() { ui.nieuw.spelers.push('Speler ' + (ui.nieuw.spelers.length + 1)); },
+  spelerMin() { const k = ui.nieuw.spelers.length - 1; ui.nieuw.spelers.pop(); for (const f of ui.nieuw.facties) if (f.wie === k) { f.wie = -1; f.speler = 'passief'; } },
   startCampagne() {
     const n = ui.nieuw;
     const s = nieuweCampagne({ scenarioId: n.scenarioId, naam: n.naam.trim() || campagneVan(n.scenarioId).naam, ruleset: n.ruleset, punten: n.punten, modus: n.modus, mist: n.mist, doorlopend: n.doorlopend,
-      lengte: n.lengte, maxBeurten: n.maxBeurten, geenDoel: n.geenDoel, bezit: n.bezit, tafel: opslag.tafel, voorraad: opslag.voorraad, facties: n.facties.map((f) => ({ id: f.id, zijde: f.zijde, speler: f.speler, doctrine: f.doctrine })) });
+      lengte: n.lengte, maxBeurten: n.maxBeurten, geenDoel: n.geenDoel, bezit: n.bezit, tafel: opslag.tafel, voorraad: opslag.voorraad, facties: n.facties.map((f) => ({ id: f.id, zijde: f.zijde, speler: f.speler, spelerNaam: f.wie >= 0 ? (n.spelers[f.wie].trim() || 'Speler ' + (f.wie + 1)) : '', doctrine: f.doctrine })) });
     opslag.campagnes[s.id] = s; bewaar(); ACT.open({ id: s.id });
   },
   tab(d) { ui.tab = d.id; ui.melding = ''; },
@@ -444,7 +454,13 @@ const ACT = {
   plan(d) { ui.plannend = d.id; ui.tab = 'beurt'; ui.sel = null; ui.undo = null; resetPlan(); },
   orderType(d) { ui.orderType = ui.orderType === d.id ? null : d.id; ui.orderVan = null; ui.melding = ''; },
   wisOrder(d) { muteer((s) => verwijderOrder(s, ui.plannend, +d.i)); },
-  planKlaar() { muteer((s) => { s.klaar[ui.plannend] = true; }); ui.plannend = null; ui.sel = null; ui.undo = null; resetPlan(); naarBoven(); },
+  planKlaar() {
+    const s = C(), wie = factie(s, ui.plannend).spelerNaam;
+    muteer((st) => { st.klaar[ui.plannend] = true; });
+    const nu = volgendePlanner(s); // volgende land van dezelfde speler: meteen door, zonder het toestel door te geven
+    ui.plannend = nu && wie && factie(s, nu).spelerNaam === wie ? nu : null;
+    ui.sel = null; ui.undo = null; resetPlan(); naarBoven();
+  },
   onthul() { muteer((s) => onthul(s)); ui.undo = null; },
   auftrag(d) { ui.auftrag = { fid: d.id, index: +d.i }; resetPlan(); },
   auftragStop() { ui.auftrag = null; resetPlan(); },
@@ -474,7 +490,8 @@ const ACT = {
 // formuliervelden: data-c = doel, data-veld = sleutel
 const VELD = {
   n(el, w) { const n = ui.nieuw; n[el.dataset.veld] = w; if (el.dataset.veld === 'ruleset') n.punten = RULESETS[w].punten; },
-  nf(el, w) { ui.nieuw.facties[+el.dataset.i][el.dataset.veld] = w; },
+  nf(el, w) { const f = ui.nieuw.facties[+el.dataset.i]; f[el.dataset.veld] = w; if (el.dataset.veld === 'wie') f.speler = w >= 0 ? 'mens' : 'passief'; },
+  ns(el, w) { ui.nieuw.spelers[+el.dataset.i] = String(w).slice(0, 30); },
   l(el, w) { const l = ui.los; l[el.dataset.veld] = w; if (el.dataset.veld === 'ruleset') l.punten = RULESETS[w].punten; if (['facA', 'periode'].includes(el.dataset.veld) && !doctrinesVoor(l.facA, l.periode).some((x) => x.id === l.docA)) l.docA = ''; if (['facV', 'periode'].includes(el.dataset.veld) && !doctrinesVoor(l.facV, l.periode).some((x) => x.id === l.docV)) l.docV = ''; },
   li(el, w) { ui.los.infra[el.dataset.veld] = w; },
   u(el, w) { ui.uitslag[el.dataset.veld] = w; return false; },
@@ -482,7 +499,7 @@ const VELD = {
   ctv(el, w) { const s = C(); s.voorraad[el.dataset.veld] = Math.max(0, +w || 0); opslag.voorraad = Object.assign({}, s.voorraad); bewaar(); },
   gt(el, w) { opslag.tafel[el.dataset.veld] = el.dataset.veld === 'eenheid' ? w : Math.max(24, +w || 24); bewaar(); },
   gtv(el, w) { opslag.voorraad[el.dataset.veld] = Math.max(0, +w || 0); bewaar(); },
-  spelerWissel(el, w) { muteer((s) => { const f = factie(s, el.dataset.id); f.speler = w; if (s.fase === 'orders') { s.orders[f.id] = []; s.klaar[f.id] = w !== 'mens'; } }); },
+  spelerWissel(el, w) { muteer((s) => { const f = factie(s, el.dataset.id); f.speler = w; if (w === 'mens' && !f.spelerNaam) f.spelerNaam = 'Speler van ' + f.naam; if (s.fase === 'orders') { s.orders[f.id] = []; s.klaar[f.id] = w !== 'mens'; } }); },
   tweedeDoc(el, w) { if (w) muteer((s) => kiesTweedeDoctrine(s, el.dataset.id, w)); },
   wisselDoc(el, w) { if (w) muteer((s) => wisselDoctrine(s, el.dataset.id, 0, w)); },
 };

diff --git a/frontlinie/src/engine.js b/frontlinie/src/engine.js
@@ -110,7 +110,7 @@ export function nieuweCampagne(cfg) {
     const basis = sc.facties.find((f) => f.id === fc.id) || {}, F = FACTIES[fc.id];
     const geldig = doctrinesVoor(fc.id, periode).map((d) => d.id);
     const doc = geldig.includes(fc.doctrine) ? fc.doctrine : (geldig.includes(basis.doctrine) ? basis.doctrine : geldig[0]);
-    return { id: fc.id, naam: F.naam, kort: F.kort, kleur: F.kleur, zijde: fc.zijde || basis.zijde || F.zijde, speler: fc.speler || basis.speler || 'mens', leger: F.leger || '',
+    return { id: fc.id, naam: F.naam, kort: F.kort, kleur: F.kleur, zijde: fc.zijde || basis.zijde || F.zijde, speler: fc.speler || basis.speler || 'mens', spelerNaam: fc.spelerNaam || '', leger: F.leger || '',
       doctrines: [doc], slots: 1, zeges: 0, hoofdstad: basis.hoofdstad || null, bronnen: basis.bronnen ? basis.bronnen.slice() : null,
       para: !!basis.para, gratisPara: basis.gratisPara || 0, landing: !!basis.landing || !!sc.sandbox, beurt1Aanvallen: basis.beurt1Aanvallen || 0, later: !!basis.later,
       extraOrders: 0, bonusVP: 0, tegenaanval: null, herkans: [], geenLanding: 0, voorbereid: {}, vielAan: 0, verloor: 0, verslagen: false, veteranen: [] };
@@ -370,7 +370,10 @@ export function startOrderFase(state) {
 export function planVolgorde(state) {
   const mensen = actieveFacties(state).filter((f) => f.speler === 'mens');
   const rang = (f) => (heeftDoc(f, 'vuurkracht') ? -100 : 0) + state.initiatief.indexOf(f.id);
-  return mensen.sort((a, b) => rang(a) - rang(b)).map((f) => f.id);
+  mensen.sort((a, b) => rang(a) - rang(b));
+  // landen van dezelfde speler na elkaar, zodat het toestel maar één keer per speler rondgaat
+  const spelers = [...new Set(mensen.map((f) => f.spelerNaam || f.id))];
+  return spelers.flatMap((sp) => mensen.filter((f) => (f.spelerNaam || f.id) === sp)).map((f) => f.id);
 }
 export function volgendePlanner(state) { return planVolgorde(state).find((id) => !state.klaar[id]) || null; }
 // Aanvallen van de vijand die deze factie tijdens het plannen al kent.

diff --git a/frontlinie/src/stijl.css b/frontlinie/src/stijl.css
@@ -137,6 +137,8 @@ label.vink { flex-direction: row; align-items: center; gap: 7px; font-size: 0.9r
 fieldset { border: 1px solid var(--lijn); border-radius: 4px; display: flex; flex-wrap: wrap; gap: 6px 16px; padding: 8px 10px; margin: 0; }
 legend { font: 600 0.74rem var(--f-kop); text-transform: uppercase; letter-spacing: 0.08em; color: var(--stil); padding: 0 4px; }
 .voorraad { display: grid; grid-template-columns: repeat(auto-fill, minmax(130px, 1fr)); gap: 8px 10px; }
+.spelers { display: flex; flex-direction: column; gap: 8px; }
+.spelers li { display: grid; grid-template-columns: minmax(110px, 180px) minmax(0, 1fr); gap: 10px; align-items: center; }
 .facrijen { display: flex; flex-direction: column; gap: 10px; }
 .facrij { border-top: 2px solid var(--inkt); padding-top: 8px; display: flex; flex-direction: column; gap: 7px; }
 .fackop { display: flex; flex-wrap: wrap; justify-content: space-between; align-items: center; gap: 8px; }
